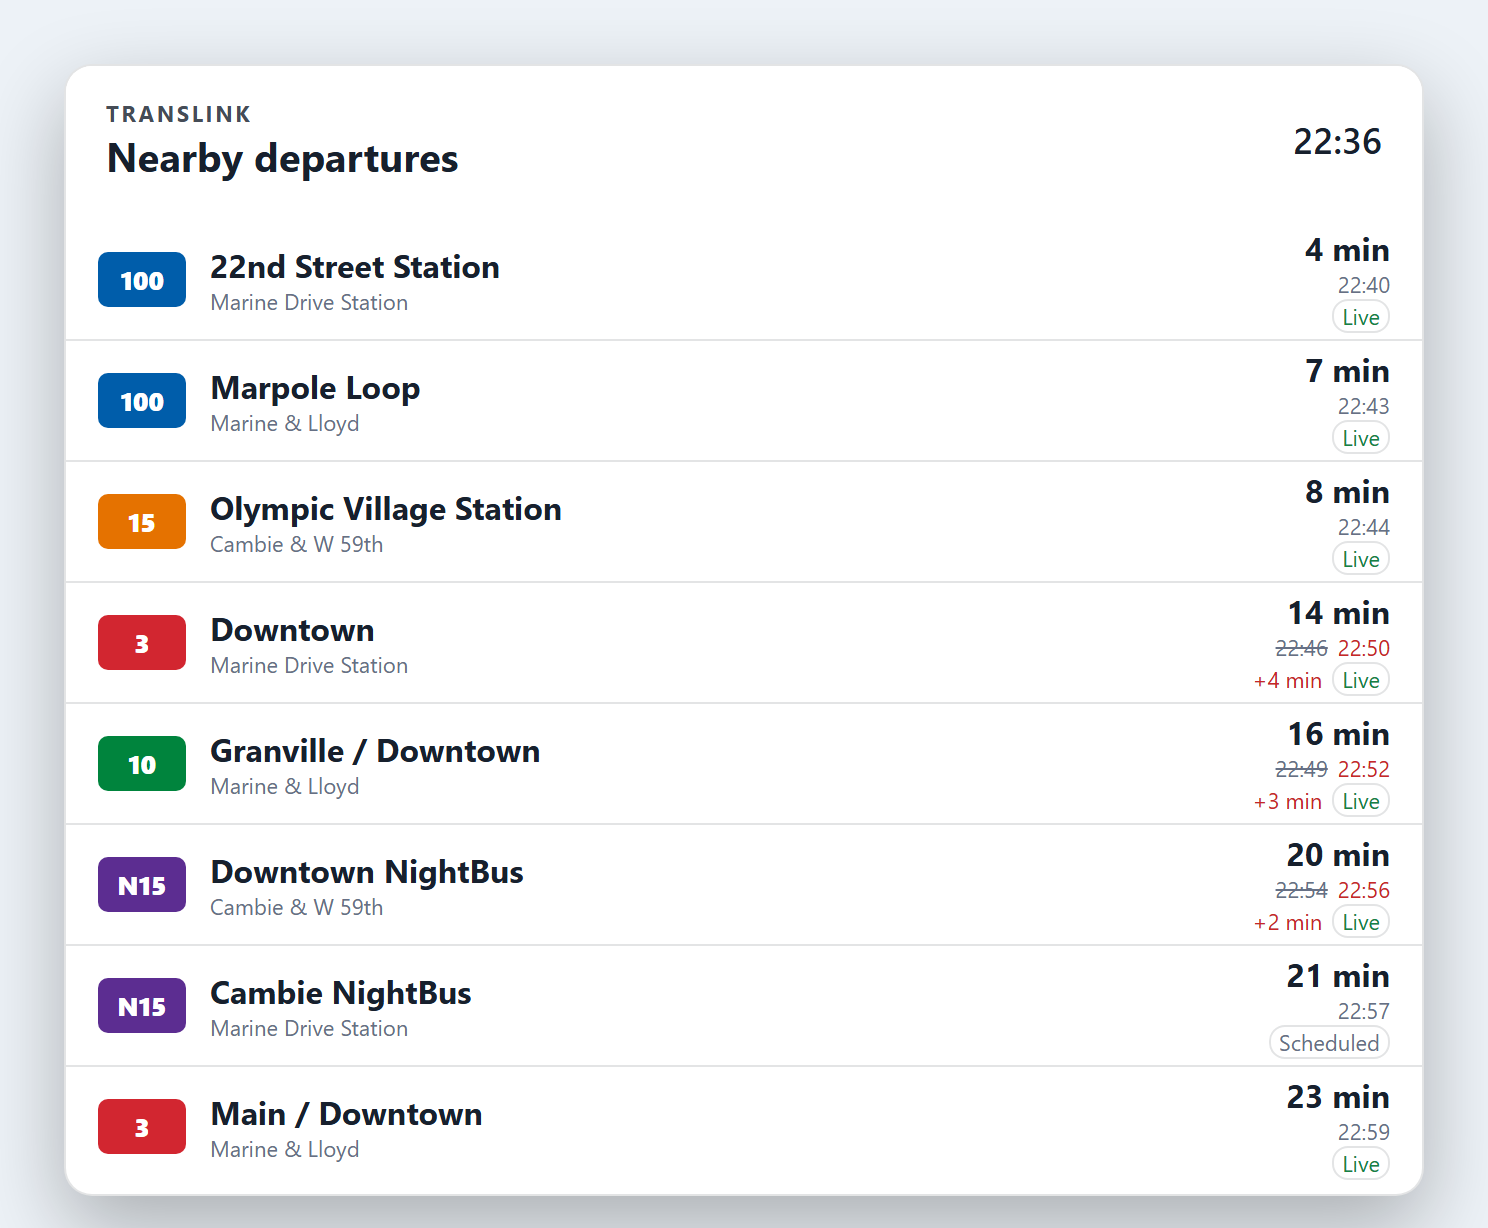
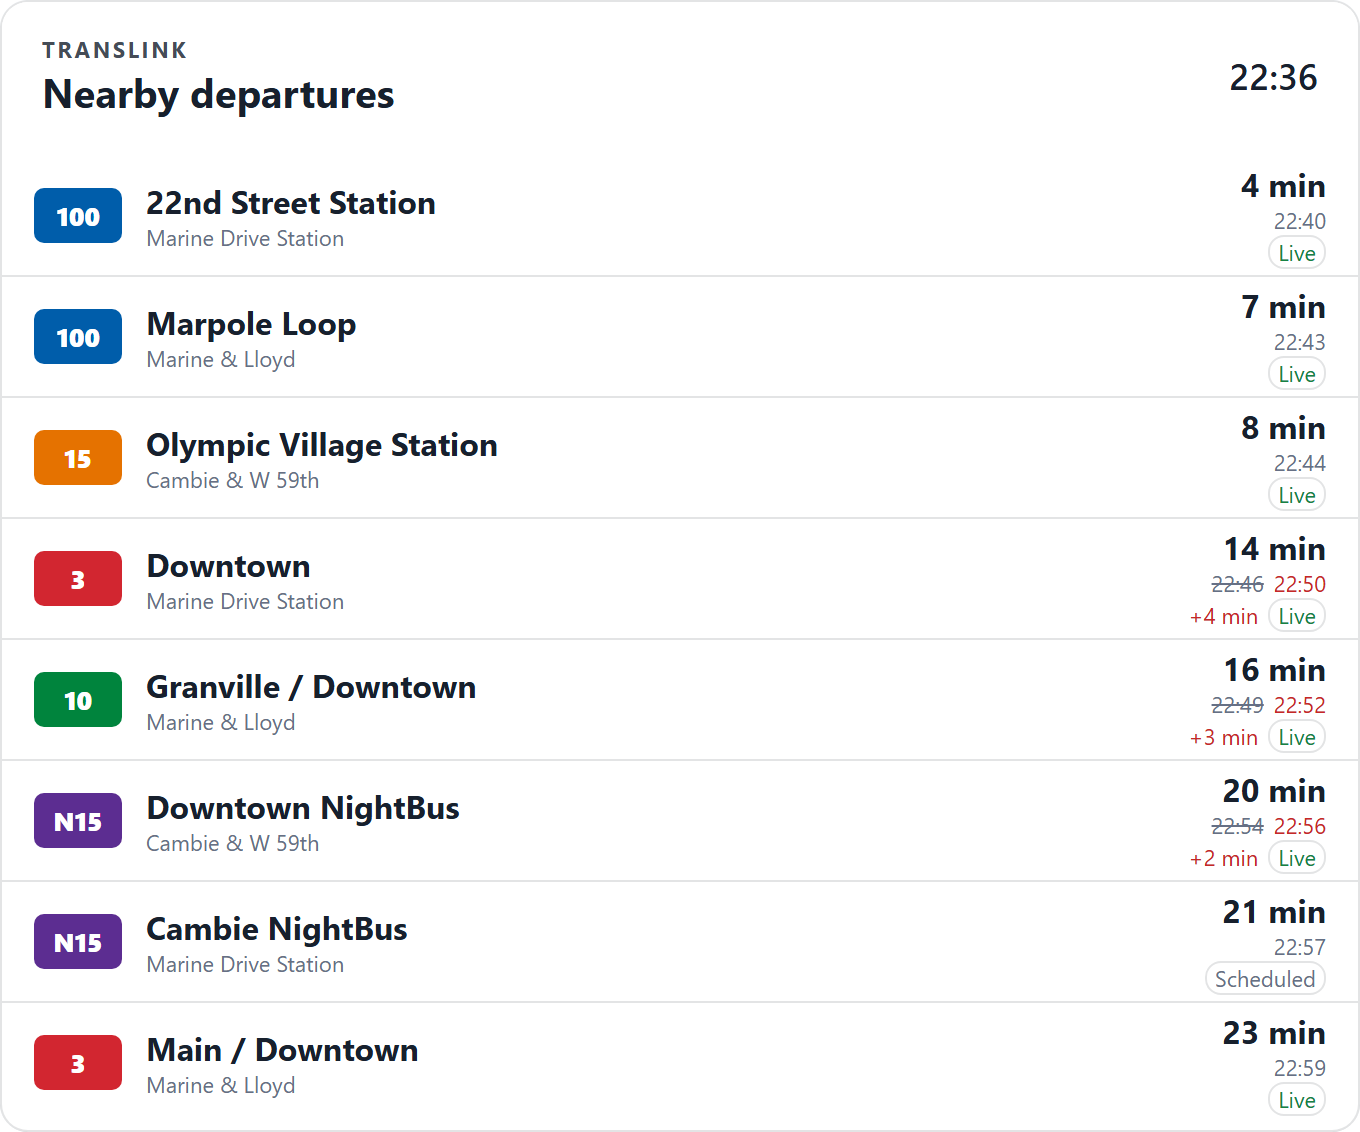
docs: use transparent card screenshots

Changed region(s): [[0.0, 0.0309, 1.0, 1.0]]

diff --git a/README.md b/README.md
@@ -52,7 +52,7 @@ or realtime-first list.
 The same card adapts to narrow dashboards with compact headings and rows.
 
 <p align="center">
-  <img src="docs/screenshots/mobile-dark.png" alt="Compact TransLink departures on mobile" width="430">
+  <img src="docs/screenshots/mobile-dark.png" alt="Compact TransLink departures on mobile" width="390">
 </p>
 
 ## Status
